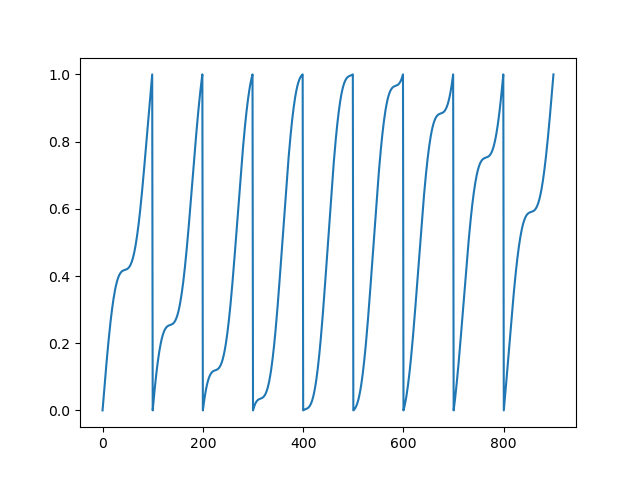
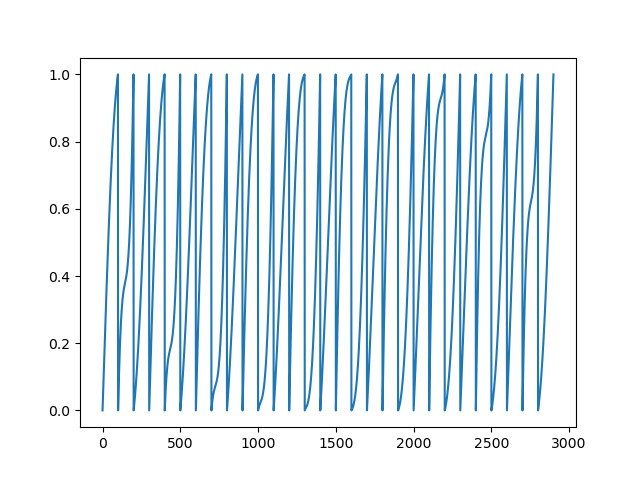
bugfix

diff --git a/fv.py b/fv.py
@@ -98,6 +98,9 @@ sns.heatmap(noise.reshape(N,M))
 
 
 
+# #+RESULTS:
+# : None
+
 
 # #+name: Init
 
@@ -151,6 +154,7 @@ plt.title("Sparsity Patter of A")
 # #+name: Microscale Transmissions
 
    def set_multiscale_transmissions(self, resolution)->NDArray[np.float64]:
+      self.resolution = resolution
       micro_basis = np.zeros((self.N -1)*resolution)
       for i in range(self.N -1):
          micro_fv = FVSolver(resolution , self.D , domain=(self.x[i] , self.x[i+1]))
@@ -176,7 +180,7 @@ plt.title("Sparsity Patter of A")
    def reconstruct_multiscale(self)->NDArray[np.float64]:
         self.reconstruction = np.zeros_like(self.micro_basis)
         for i in range(len(self.c)-1):
-            n = len(self.micro_basis) // self.N + self.N
+            n = self.resolution
             t = self.micro_basis[n*i:n*(i+1)]
             self.reconstruction[n*i:n*(i+1)] = (1-t) * self.c[i] + t * self.c[i+1]
 
@@ -186,13 +190,20 @@ from src.fvsolver import FVSolver
 import src.diffusion as D
 reload(src.fvsolver)
 reload(D)
-fv = FVSolver(10 ,  D.oscillation)
+fv = FVSolver(30 ,  D.oscillation)
+fv_ref = FVSolver(1000 ,  D.oscillation)
 fv.set_boundary()
+fv_ref.set_boundary()
+fv_ref.assemble_matrix()
+c_fine = fv_ref.solve()
 mb = fv.set_multiscale_transmissions(100)
 fv.assemble_matrix()
 c_course = fv.solve()
 fv.reconstruct_multiscale()
-plt.plot(fv.reconstruction)
+plt.plot(fv.x , c_course)
+x_fine = np.linspace(0,1, len(fv.micro_basis))
+plt.plot(x_fine,fv.reconstruction)
+plt.plot(fv_ref.x,c_fine)
 
 
 

diff --git a/src/fvsolver.py b/src/fvsolver.py
@@ -16,11 +16,13 @@ from numpy.typing import NDArray
 
 class FVSolver:
    N : int
+   resolution : int
    h : np.float64
    x : NDArray[np.float64]
    D : Callable
    f : NDArray[np.float64]
    c : NDArray[np.float64]
+   micro_basis : NDArray[np.float64]
 
    _T : NDArray[np.float64]
 
@@ -53,6 +55,7 @@ class FVSolver:
 
 
    def set_multiscale_transmissions(self, resolution)->NDArray[np.float64]:
+      self.resolution = resolution
       micro_basis = np.zeros((self.N -1)*resolution)
       for i in range(self.N -1):
          micro_fv = FVSolver(resolution , self.D , domain=(self.x[i] , self.x[i+1]))
@@ -67,10 +70,11 @@ class FVSolver:
       return micro_basis
 
 
+
    def reconstruct_multiscale(self)->NDArray[np.float64]:
         self.reconstruction = np.zeros_like(self.micro_basis)
         for i in range(len(self.c)-1):
-            n = len(self.micro_basis) // self.N + self.N
+            n = self.resolution
             t = self.micro_basis[n*i:n*(i+1)]
             self.reconstruction[n*i:n*(i+1)] = (1-t) * self.c[i] + t * self.c[i+1]
 
